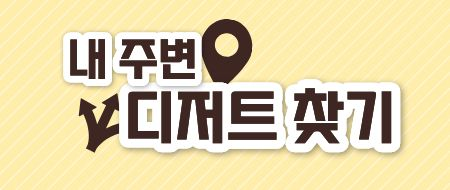
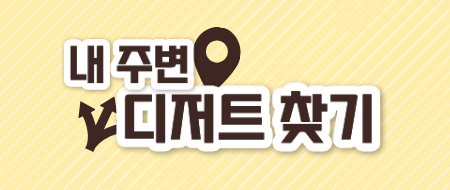
dd

diff --git a/teamProject/src/main/webapp/css/main-style.css b/teamProject/src/main/webapp/css/main-style.css
@@ -541,7 +541,7 @@ ul {
     background-color: #7e6763;
     color: #FFEDAC;
     /* box-shadow: 0 0 10px rgba(0,0,0,0.3); */
-    border: 5px solid #FFEDAC; /* border 확실히 보이도록 */
+    border: 4px solid #FFEDAC; /* border 확실히 보이도록 */
 }
 
 .category-btn:hover {
@@ -666,7 +666,7 @@ ul {
 
 .product-item {
     /* 기존 스타일 제거 및 재정의 */
-    border: 1px solid #eee;
+    border: 1px solid #d8d8d8;
     padding: 15px; /* 패딩 증가 */
     text-align: left;
     border-radius: 8px; /* 둥근 모서리 */
@@ -701,7 +701,7 @@ ul {
 .product-image-wrapper {
   position: relative;
   width: 100%;
-  height: 180px; /* 원하는 카드 높이에 맞게 조정 */
+  height: 200px; /* 원하는 카드 높이에 맞게 조정 */
   border-radius: 12px;
   overflow: hidden;
   background-color: #f5f5f5;
@@ -778,9 +778,9 @@ ul {
 }
 
 .pagination a.active {
-    background-color: #333;
+    background-color: #3E2723;
     color: #fff;
-    border-color: #333;
+    border-color: #3E2723;
 }
 
 .pagination a:hover:not(.active) {
@@ -790,7 +790,7 @@ ul {
 /* 3-5. 외부 광고 */
 .external-ad {
     background-color: #e0e0e0;
-    height: 120px;
+    height: 140px;
     display: flex;
     align-items: center;
     justify-content: center;
